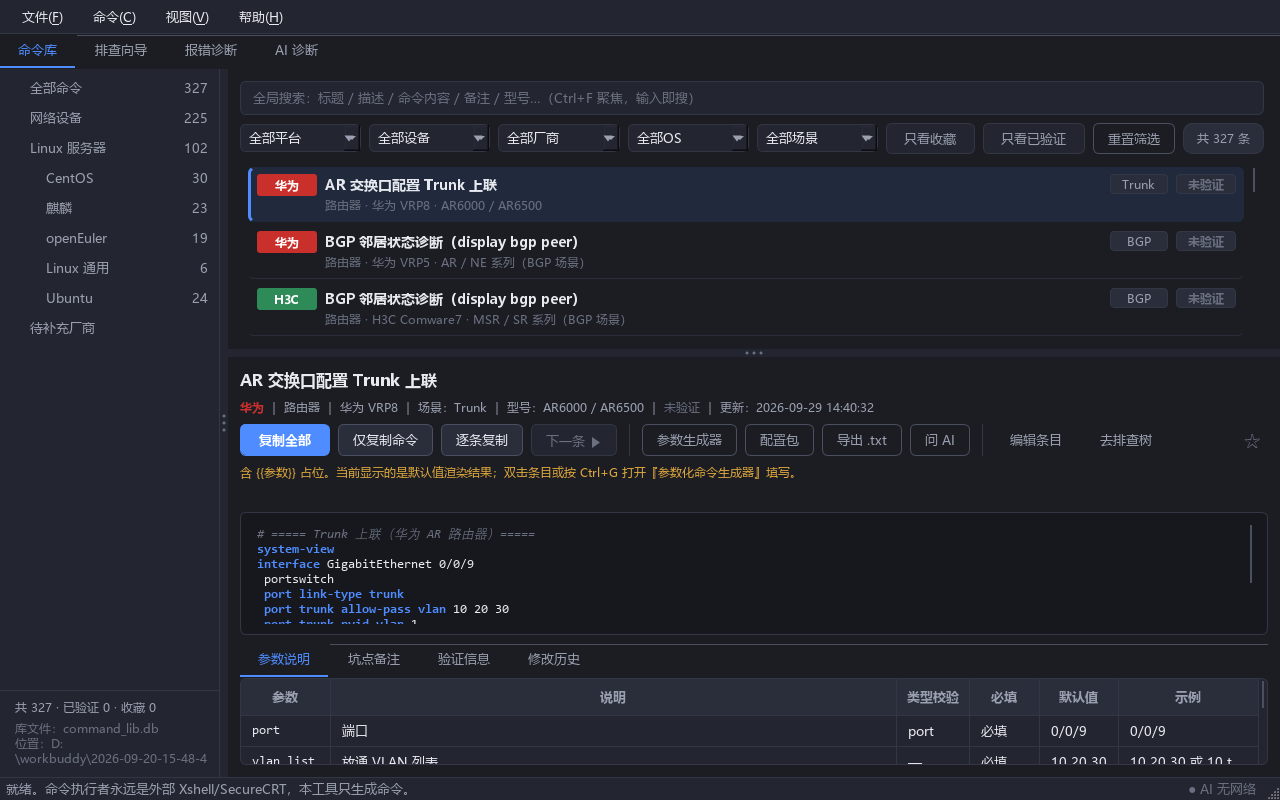
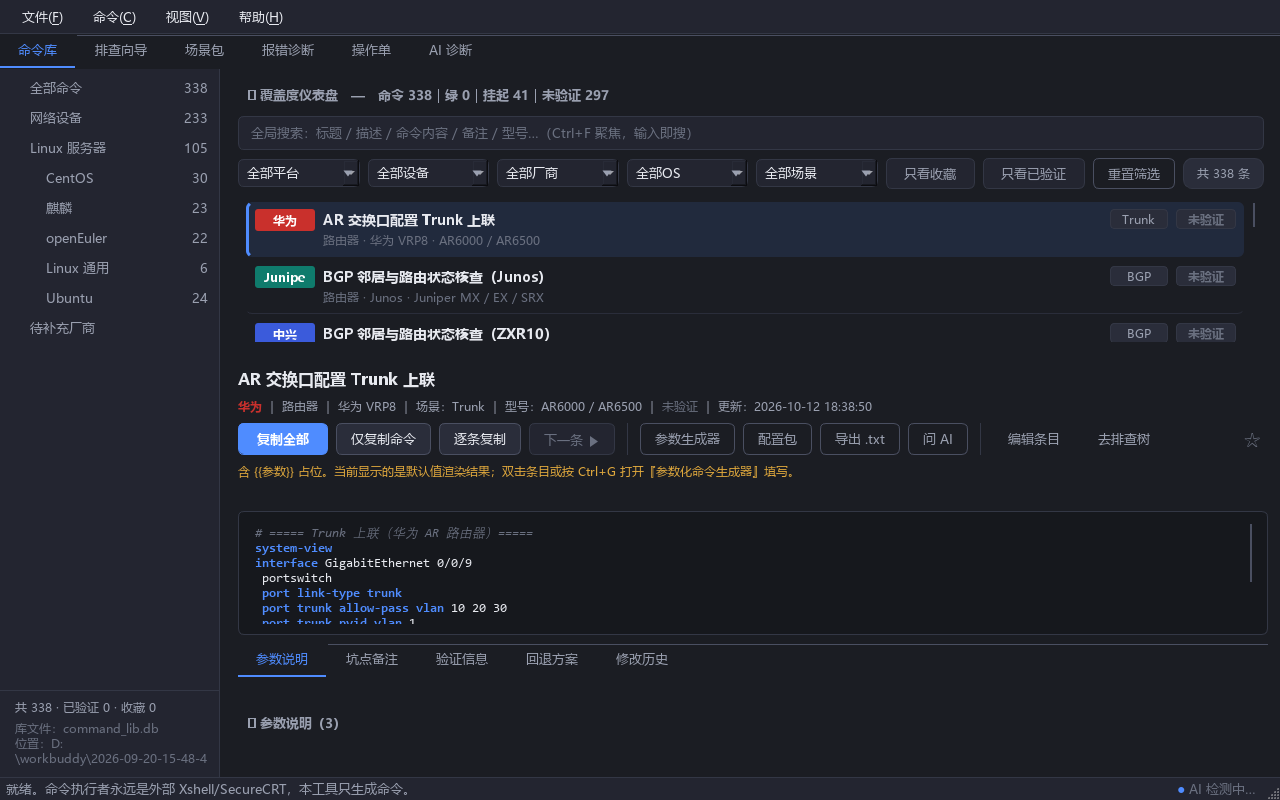
docs: README 重构为定位说明 + 操作安全叙事 + 使用指南
- 定位段（离线优先/多厂商/操作安全三支柱）+ Why 三小节（Offline First /
  Operational Safety / Knowledge-driven Troubleshooting）
- 安全模型节：离线核心 + AI 旁路三态现状 + Copy Only 边界 + key 存储现状
- 典型场景 x2：OSPF ExStart 排查树走查（ospf-exstart 真实步骤）/ 变更前 Runbook
- Mermaid 架构图：种子→validate→SQLite→UI，AI 为可选旁路（浏览器实测渲染通过）
- 事实段三处保留并同步：版本 v0.6.1→v0.6.2；厂商修正为实际 10 家网络厂商；
  种子规模表 338/26/82/3 核对一致；占位厂商不再列出
- 截图 4 张入库（main 重拍 / command_search / troubleshoot / runbook）
- 贡献段缩为 3 行指针；路线图方向段无版本号承诺
- CHANGELOG 文档节 + docs/README.md 索引 + screenshots/README.md 同步

diff --git a/README.md b/README.md
@@ -1,48 +1,77 @@
-# NetToolBox —— 离网网络运维工具箱：命令库 × 排查树 × 报错诊断，专为客户现场「无网可用」而生。
+# NetToolBox —— 离网网络运维的操作安全工具箱
 
-<!-- 截图占位：截图文件请放入 docs/screenshots/ 后替换下行 -->
 ![screenshot](docs/screenshots/main.png)
 
-一套面向网络工程师与交付工程师的桌面工具（PyQt5），把各家厂商设备的常用命令、排查思路、报错判读沉淀成**可检索、可渲染、可验证**的本地知识库——不联网、不依赖云服务，拷进 U 盘就能带去机房。
+**NetToolBox 是一台可以装进 U 盘的离线网络运维知识库**：把 10 家网络厂商与 4 个 Linux 发行版的常用命令、排查树、报错判读沉淀为本地 SQLite 知识库，不联网、不依赖云服务。它围绕三个操作安全支柱设计——**每条命令带验证状态、变更类命令必带回退方案（rollback）、工具只生成与复制命令而绝不代替你执行（Copy Only）**。
 
-## 功能特性
+## Why NetToolBox
 
-- **三库联动**
-  - **命令库**：按「厂商 → OS → 场景」组织的命令条目，`{{参数}}` 占位渲染、必填/选填校验、一键复制；
-  - **报错诊断**：把设备真实报错回显粘贴进来，匹配报错字典直接给出原因与处理步骤；
-  - **排查树向导**：按故障场景（接口抖动、广播风暴、升级回滚、AAA 锁死……）逐步引导，步骤内引用命令库条目。
-- **全局搜索 × 覆盖度仪表盘**
-  - **Ctrl+K 全局命令面板**：任意页面一键唤起，一次输入同时搜命令 / 报错 / 排查树三库，↑↓ 选择、Enter 直接跳转定位；空输入显示「最近使用」。常用快捷键：
+### Offline First —— 为「无网可用」而生
 
-    | 快捷键 | 作用 | 快捷键 | 作用 |
-    |---|---|---|---|
-    | `Ctrl+K` | 全局搜索（三库） | `Ctrl+F` | 聚焦本库搜索 |
-    | `Ctrl+G` | 命令生成器 | `Ctrl+B` | 配置包 |
-    | `Ctrl+N` / `Ctrl+E` | 新建 / 编辑条目 | `Ctrl+L` | 库管理器 |
-    | `Ctrl+C` | 复制选中命令块 | `Ctrl+D` | 收藏切换 |
+机房、客户现场、割接窗口，网络往往就是不可用的原因。NetToolBox 的全部核心能力离线完成：
 
-  - **覆盖度仪表盘**：命令库顶部折叠卡片——厂商×分类条目矩阵 + 三库四档验证进度分段条（绿 / 语法核对 / 挂起 / 未验证），口径与 [verify-guide](docs/verify-guide.md) 一致，全部 db 直查只读。
-- **回退安全体系（rollback）**：变更类条目内置 `rollback` 回退序列，详情页折叠面板展示（undo/no/delete 序列以"恢复变更前状态"为终点、复核命令收尾）；**复制变更类命令前弹确认弹窗**，提示回退路径（查询类不弹，全局开关在「视图」菜单）——先想好怎么退，再动手改；种子入库硬校验：`--validate-seed` 对「变更类缺 rollback」报 **[E]** 一律拦截。
-- **操作单（Runbook）× 场景包**
-  - **操作单生成器**：从三库逐条组装运维操作单，参数化生成命令、变更类步骤自动附回退方案（实时取库，不落盘防漂移），一键导出 A4 打印友好单文件 HTML（含勾选框、回退方案汇总页与复核签字页）；操作单文件本地存 `runbooks/`，见 [docs/runbook-guide.md](docs/runbook-guide.md)；
-  - **场景包**：把命令条目 / 排查树 / 报错按场景组织成**清单式捆绑**（只引用不复制，条目变更引用校验兜底），多厂商步骤支持按厂商视图切换；预置新设备上架 / 割接前检查 / 故障应急回退三包。
-- **AI 会话入库管线**：与 AI 对话生成的命令/排查树，按**结构化 params schema + rollback 产出约定**生成（参数表全字段、变更类必带回退方案块），入库时随条目落库并受同一校验把关；占位 id 自动重映射，杜绝「复制粘贴进文档再手工整理」。
-- **真机验证流转**：每条命令带 `verified` 状态与验证人/型号/日期字段，未验证条目明确标黄；真机验证通过后回填晋升，种子库只进「可信命令」。
-- **离网可用**：零联网运行，SQLite 主库 + JSON 种子全本地；附 `check_db.py` 只读体检工具，U 盘/受限环境可直接跑。
+- **零联网运行**：SQLite 主库 + JSON 种子全本地，拷进 U 盘带走即可；附 `check_db.py` 只读体检脚本，受限环境可直接跑；
+- **三库一体**：命令库（按「厂商 → OS → 场景」组织，`{{参数}}` 占位渲染、必填/选填校验）、报错诊断（粘贴设备回显，匹配报错字典给出原因与处理步骤）、排查树向导（见下文）；
+- **Ctrl+K 全局命令面板**：任意页面一键唤起，一次输入同时搜三库，↑↓ 选择、Enter 跳转定位；空输入显示「最近使用」；
+- **覆盖度仪表盘**：厂商×分类条目矩阵 + 三库四档验证进度分段条，全部 db 直查只读，口径见 [verify-guide](docs/verify-guide.md)。
 
-## 架构与数据流
+### Operational Safety —— 先想好怎么退，再动手改
 
-> 完整的数据流图、三库职责与公开仓/伴生仓分工见 [docs/architecture.md](docs/architecture.md)。
+面向「命令是要贴到生产设备上跑的」这一现实设计：
 
-种子是唯一事实源：改种子 → `--validate-seed` 全量校验 → 重建/更新主库；真机验证结论回流种子，形成「沉淀 → 验证 → 晋升」闭环。
+- **验证状态如实标注**：每条命令带四档验证状态（真机验证 / 语法核对 / 挂起 / 未验证）与验证人、型号、日期字段，未验证条目明确标黄，不冒充可信结论；
+- **变更类必带 rollback**：变更类条目内置回退序列（undo/no/delete 序列以「恢复变更前状态」为终点、复核命令收尾），详情页折叠面板展示；**复制变更类命令前弹确认弹窗**提示回退路径（查询类不弹，全局开关在「视图」菜单）；
+- **种子入库硬校验**：`--validate-seed` 全量校验，**[E] 级一律拦截**（变更类缺 rollback、参数表缺字段等），[W] 级提示复核；
+- **发版 zip 脱敏断言**：发版 zip 由 CI 组装，内置**正向白名单断言**（仅允许 exe / 主库 / 体检脚本 / 种子 JSON），配置、日志、会话文件混入即构建失败；
+- **骨架条目复制守卫**：CLI 骨架（`exec_level: skeleton`）条目复制前拦截提示，防止半成品命令贴上设备。
+
+### Knowledge-driven Troubleshooting —— 把老师傅的排查路径变成流程
+
+![troubleshoot](docs/screenshots/troubleshoot.png)
+
+排查树把故障场景拆成「**问题 → 检查 → 命令 → 预期结果 → 下一步**」的决策链：
+
+- 每个步骤给出**观察点**（该看什么）与**检查命令**（按当前厂商从命令库实时渲染，覆盖 Cisco / 华为 / H3C / 锐捷 / 中兴 / Juniper 等六家）；
+- 按观察结果走分支，直到叶子结论与处置清单——预置 26 棵树，覆盖连通性、端口、性能、路由协议、Linux、运维（防火墙 / 升级回滚 / AAA 等）；
+- 报错诊断与之互补：设备报错回显粘贴进来，直接匹配报错字典（82 条）给出原因与处理步骤。
+
+## 安全模型
+
+- **离线核心**：不配置 AI、不联网，检索、渲染、参数化生成、排查树、操作单、场景包全部可用——AI 是可拆旁路，不是依赖项；
+- **AI 旁路三种运行状态**：未配置时 AI Tab 显示引导页（不崩溃不报错）；配置缺失或无网络时置灰；可连接时经 OpenAI 兼容端点对话（状态栏常驻指示：绿=可连接 / 灰=无网络 / 黄=配置缺失）；
+- **Copy Only 边界**：命令执行者永远是外部终端（Xshell / SecureCRT 等），本工具只生成、渲染与复制，**绝不代替你连接或下发设备**；AI 产出入库一律带「未验证」状态、仅可复制，不存在自动执行路径；
+- **密钥存储现状**：AI 的 `api_key` 以明文保存在程序同目录 `ai_config.json`（该文件不入 git、且被发版 zip 白名单断言排除，不会随包分发）——介意明文落盘的环境请勿配置 AI，离线核心不受影响；
+- **复制三模式**：复制全部（含注释整块）/ 仅复制命令（剔除 `!` `#` 注释行，粘贴即跑）/ 逐条复制（逐条高亮回车下一条，精确定位单条命令）。
+
+## 典型场景
+
+### 场景一：OSPF 邻居卡在 ExStart —— 按排查树走查
+
+1. 排查向导选择现象「OSPF 邻居卡 ExStart」（路由协议类，覆盖六家厂商）；
+2. **步骤 1 · 确认邻居状态**：树给出各厂商检查命令（Cisco `show ip ospf neighbor` 族 / 华为 `display ospf peer` 族等，按当前厂商渲染），观察邻居卡在哪个状态；
+3. 观察到 **ExStart/Exchange** → 进入 **步骤 2 · MTU 与 DBD 协商**：核对两端接口 MTU 是否一致、中间链路是否透传 DBD 包——命中叶子结论「MTU 不一致」即给出处置清单；
+4. 观察到 **Init** → 走「Hello 单向可达」分支；**无邻居** → 走「宣告与参数核对」分支（网段宣告、区域号、Hello/Dead、认证逐项比对）。
+
+每一步都是「该看什么 → 贴哪条命令 → 预期结果 → 下一步去哪」，新人也能按树走查。
+
+### 场景二：变更窗口前 —— 先出操作单（Runbook）
+
+![runbook](docs/screenshots/runbook.png)
+
+1. **生成**：操作单生成器从三库逐条组装步骤，参数化生成命令，填写变更单头（标题 / 设备 / 厂商 / 窗口起止 / 执行人 / 复核人 / 回退点）；
+2. **回退审查**：变更类步骤自动附回退方案（实时取库、不落盘防漂移），导出的单文件 HTML 含**回退方案汇总页**——窗口开始前先把「怎么退」过一遍；
+3. **执行**：A4 打印友好版式带勾选框，逐步执行逐项打勾，复核命令收尾；
+4. **验证**：附预期回显要点与复核签字页，执行完毕核对预期结果并归档操作单（本地存 `runbooks/`）。
+
+同类的复用需求还有**场景包**：把命令 / 排查树 / 报错按场景组织成清单式捆绑（只引用不复制，条目变更由引用校验兜底），多厂商步骤支持按厂商视图切换——预置**新设备上架 / 割接前检查 / 故障应急回退**三包，见 [seed-guide 四·C](docs/seed-guide.md)。
 
 ## 快速开始
 
-**方式一：下载成品（推荐，免装环境）**
+**方式一：下载成品（30 秒，免装环境）**
 
-当前版本：**v0.6.1**（与程序「关于」对话框、Release 页保持一致；更新随 [Releases](../../releases) 发布，发版 zip 由 CI 自动构建挂载）。
+当前版本：**v0.6.2**（与程序「关于」对话框、Release 页保持一致；更新随 [Releases](../../releases) 发布，发版 zip 由 CI 自动构建挂载）。
 
-到 [Releases](../../releases) 下载 `NetToolBox_v*.zip`，解压即用：
+到 [Releases](../../releases) 下载 `NetToolBox_v*.zip`，解压双击 `NetToolBox.exe` 即用：
 
 ```
 NetToolBox.exe        # 双击运行
@@ -60,7 +89,52 @@ python app/main.py --validate-seed   # 种子库质检（改种子后必跑）
 python scripts/check_db.py        # 主库只读体检
 ```
 
+常用快捷键：
+
+| 快捷键 | 作用 | 快捷键 | 作用 |
+|---|---|---|---|
+| `Ctrl+K` | 全局搜索（三库） | `Ctrl+F` | 聚焦本库搜索 |
+| `Ctrl+G` | 命令生成器 | `Ctrl+B` | 配置包 |
+| `Ctrl+N` / `Ctrl+E` | 新建 / 编辑条目 | `Ctrl+L` | 库管理器 |
+| `Ctrl+C` | 复制选中命令块 | `Ctrl+D` | 收藏切换 |
+
+搜索状态实测：输入 `ospf` 即时过滤出 20 条相关条目，可按平台 / 设备 / 厂商 / OS / 场景继续收敛。
+
+![search](docs/screenshots/command_search.png)
+
+## 架构
+
+种子是唯一事实源：改种子 → `--validate-seed` 全量校验 → 重建/更新主库；真机验证结论回流种子，形成「沉淀 → 验证 → 晋升」闭环。完整的数据流、三库职责与公开仓/伴生仓分工见 [docs/architecture.md](docs/architecture.md)。
+
+```mermaid
+flowchart LR
+    subgraph seed["种子（唯一事实源，JSON）"]
+        E["命令条目"]
+        T["排查树"]
+        R["报错字典"]
+        P["场景包（只引用三库）"]
+    end
+    V["--validate-seed<br/>[E] 拦截 / [W] 提示"]
+    DB[("SQLite 主库<br/>command_lib.db")]
+    subgraph UI["PyQt5 桌面应用（离线核心）"]
+        LIB["命令库<br/>参数渲染 + 复制三模式"]
+        TS["排查向导"]
+        EF["报错诊断"]
+        SC["场景包"]
+        RB["操作单 Runbook<br/>实时取库"]
+        DASH["覆盖度仪表盘（只读）"]
+    end
+    AI["AI 诊断（可选旁路）<br/>未配置=引导页 / 可连接=OpenAI 兼容端点<br/>产出一律「未验证」入库"]
+    TERM["外部终端 Xshell / SecureCRT<br/>唯一执行者（Copy Only 边界）"]
+
+    seed --> V --> DB --> UI
+    UI <-.-> AI
+    LIB -->|"复制全部 / 仅复制命令 / 逐条复制"| TERM
+```
+
 ## 种子规模
+
+> 本节为随发版维护的事实段，数字与仓库种子实况核对一致。
 
 | 库 | 数量 |
 |---|---|
@@ -69,7 +143,7 @@ python scripts/check_db.py        # 主库只读体检
 | 报错字典 | **82** 条 |
 | 场景包 | **3** 个（新设备上架 / 割接前检查 / 故障应急回退） |
 
-覆盖 **11 家网络厂商**（Cisco、华为 AR/S、H3C、Juniper、PaloAlto、Fortinet、锐捷、中兴、深信服、天融信）+ **Linux ×4**（CentOS 7 / 麒麟 V10 / openEuler 22.03 / Ubuntu 22.04），另有 8 家厂商占位目录持续扩充中。
+覆盖 **10 家网络厂商**（Cisco、华为 AR/S、H3C、Juniper、Palo Alto、Fortinet、锐捷、中兴、深信服、天融信）+ **Linux ×4**（CentOS 7 / 麒麟 V10 / openEuler 22.03 / Ubuntu 22.04），另有通用运维（转传工具类）条目。厂商与场景覆盖随验证会滚动扩充。
 
 ## 目录结构
 
@@ -83,13 +157,15 @@ lab/            compose 实验室：FRR / SR Linux / CentOS 7 / Ubuntu 四服务
 
 > 打包说明：`python scripts/build_exe.py`（PyQt5 + PyInstaller）；requests 依赖以 `pip --target` 落在 `_vendor/`（仅构建机本地，随 exe 打包、不入 git）。AI 会话产物落位规范见 [AGENTS.md](AGENTS.md)。
 
-## 贡献指引
+## 路线图
 
-欢迎贡献命令条目、报错样本与验证反馈——完整流程（fork→branch→validate 绿→PR、Issue 三类指引）见 [CONTRIBUTING.md](CONTRIBUTING.md)；种子条目字段写法见 [docs/seed-guide.md](docs/seed-guide.md)。速记：
+项目沿三个方向持续演进（方向性描述，不含版本承诺）：厂商与场景条目随「沉淀 → 验证 → 晋升」循环继续扩充；真机验证结论持续回填、可信条目占比逐步提升；操作单与场景包模板随实际交付场景丰富。
 
-1. **修改 `app/seed_data/` 的 PR 必须通过 CI 的 `validate-seed`**（EXIT=0 硬门槛），本地可用 pre-commit 钩子（`cp scripts/hooks/pre-commit .git/hooks/pre-commit`）；
-2. 未真机验证的条目保持 `verified: 0`，CLI 骨架标 `exec_level: "skeleton"`；
-3. 文档体系总览见 [docs/README.md](docs/README.md)（每主题唯一权威出处索引）。
+## 贡献
+
+- 条目与代码的 PR 流程、Issue 三类指引见 [CONTRIBUTING.md](CONTRIBUTING.md)；
+- 种子条目字段写法（含场景包）见 [docs/seed-guide.md](docs/seed-guide.md)；
+- 修改 `app/seed_data/` 的 PR 必须通过 CI 的 `validate-seed`（EXIT=0 硬门槛），本地可装 pre-commit 钩子（`cp scripts/hooks/pre-commit .git/hooks/pre-commit`）。
 
 ## 免责声明
 

diff --git a/CHANGELOG.md b/CHANGELOG.md
@@ -7,7 +7,10 @@
 
 ## Unreleased
 
-（暂无）
+#### 文档
+- **README 重构**：由「功能列表」升级为「定位说明 + 操作安全叙事 + 使用指南」——新增定位段（离线优先 / 多厂商 / 操作安全三支柱：验证状态、rollback、Copy Only）、Why NetToolBox 三小节（Offline First / Operational Safety / Knowledge-driven Troubleshooting）、安全模型节（离线核心 + AI 旁路三态运行现状 + Copy Only 边界 + 密钥存储现状如实描述）、两个典型场景（OSPF ExStart 排查树走查 / 变更前 Runbook 四步）与 Mermaid 架构图（AI 画为可选旁路，不与库并列）；
+- 事实段三处保留并同步：版本号修正 v0.6.1→v0.6.2（与 APP_VERSION / Release 对齐）、zip 清单与种子规模表核对一致（338 / 26 / 82 / 3）；厂商列表按种子实况修正为 **10 家网络厂商**（原文「11 家」与括号列名不符），占位厂商目录不再对外列出；
+- 新增 4 张界面截图入库 `docs/screenshots/`：`main.png`（主界面，重拍）/ `command_search.png`（搜索状态）/ `troubleshoot.png`（排查树）/ `runbook.png`（操作单），README 分节引用。
 
 ## v0.6.2（2026-10-12）
 

diff --git a/docs/screenshots/README.md b/docs/screenshots/README.md
@@ -2,6 +2,17 @@
 
 README 首图引用 `docs/screenshots/main.png`——已放置命令库 Tab 界面图。
 
+## README 重构配套四图（2026-10-12，offscreen 重拍）
+
+| 图 | 内容 | README 引用位置 |
+|---|---|---|
+| `main.png` | 命令库主界面（华为 AR Trunk 条目选中 + 详情面板） | 首图 |
+| `command_search.png` | 搜索 `ospf` 即时过滤 20 条 + 筛选器 + 仪表盘分段条 | 快速开始·快捷键后 |
+| `troubleshoot.png` | 排查向导：现象按分类树（连通性/端口/性能/路由协议） | Why·Knowledge-driven |
+| `runbook.png` | 操作单生成器：变更单头 + 步骤编辑空态 | 典型场景二 |
+
+（截图脚本：`python scripts/ui_screenshot.py <输出目录> <标签>` 抓四 Tab；本轮四图带搜索/选中等状态，由 `.workbuddy` 一次性会话脚本产出，脚本按会话纪律不转正。）
+
 ## 主题统一 + AI 诊断布局重构（2026-09-29）
 
 before / after 对比图（左右拼接，可直接用于汇报材料）：

diff --git a/docs/README.md b/docs/README.md
@@ -7,7 +7,7 @@
 
 | 文档 | 受众 | 回答什么问题 | 更新时机 |
 |---|---|---|---|
-| [README.md](../README.md)（根） | 所有人 | 这是什么工具、怎么跑、规模多大、免责与 License | 每次发版 |
+| [README.md](../README.md)（根） | 所有人 | 定位与操作安全模型、典型场景、怎么跑、规模多大、路线方向、免责与 License | 内容结构变更或每次发版 |
 | [CONTRIBUTING.md](../CONTRIBUTING.md) | 潜在贡献者 | 怎么参与：PR 流程、Issue 怎么提 | 贡献流程变更时 |
 | [AGENTS.md](../AGENTS.md) | AI 会话 / 维护者 | 会话产物落位、打包纪律、种子数据纪律 | 约定新增或变更时 |
 | [architecture.md](architecture.md) | 维护者 / 深度贡献者 | 数据流、三库职责、公开仓与伴生仓分工 | 架构变更时 |
